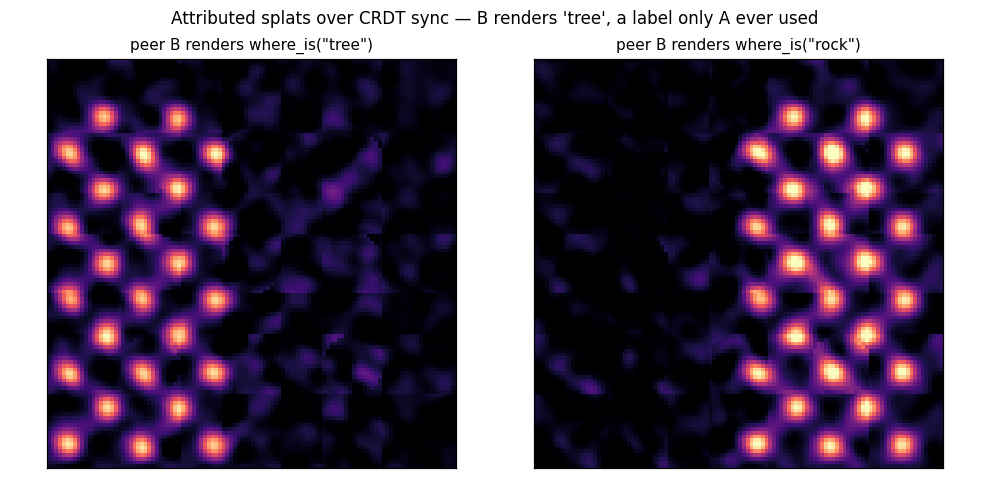
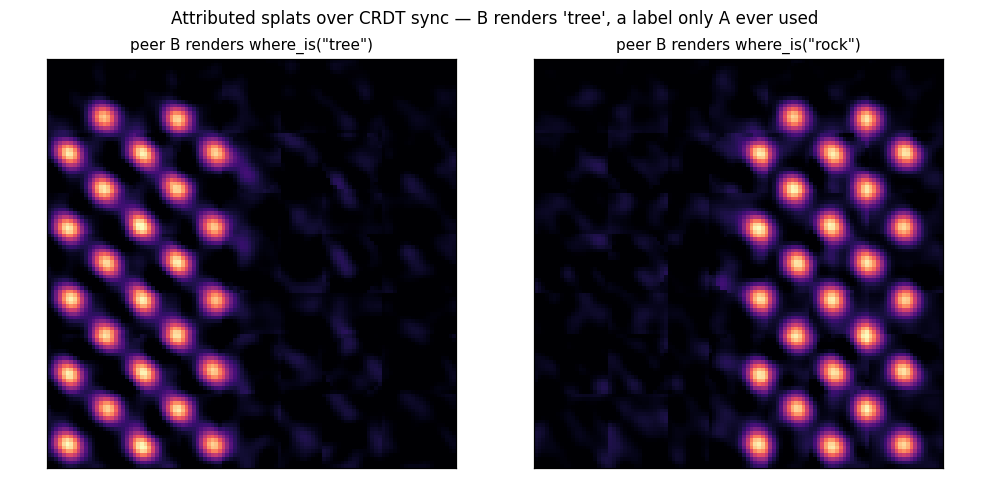
crdt demo: the two figures move into _demo_plot
Same pattern as demo_codec — the plotting tail was half the function's
branching and none of its subject. Behavior unchanged: every printed
line matches the pre-refactor capture except the Loro delta byte
counts, which vary run to run on identical input regardless of this
change (9,041 vs 9,040, measured on untouched code).

diff --git a/holo/crdt.py b/holo/crdt.py
@@ -454,6 +454,52 @@ class ReplicatedAttributeScene:
         return out
 
 
+def _demo_plot(view_a, view_b, merged_a, attr_b, P, grid):
+    """The demo's two figures: divergence-then-merge, and a label only
+    one peer ever used being rendered by the other."""
+    try:
+        import matplotlib
+        matplotlib.use("Agg")
+        import matplotlib.pyplot as plt
+    except ImportError:
+        print("  matplotlib not available; skipping image")
+        return
+
+    vmax = merged_a.max()
+    fig, axes = plt.subplots(1, 3, figsize=(13, 4.4))
+    for ax, (title, img) in zip(axes, [
+            ("peer A before sync (left half)", view_a),
+            ("peer B before sync (right half)", view_b),
+            ("either peer after Loro sync", merged_a)]):
+        ax.imshow(img.reshape(grid, grid), origin="lower", cmap="magma",
+                  vmin=0, vmax=vmax)
+        ax.set_title(title, fontsize=10)
+        ax.set_xticks([])
+        ax.set_yticks([])
+    fig.suptitle("Holographic scene as a CRDT: bundles merge by "
+                 "addition, Loro makes the exchange exactly-once",
+                 fontsize=11)
+    fig.tight_layout()
+    import os
+    os.makedirs("out", exist_ok=True)
+    fig.savefig("out/crdt_scene.png", dpi=110)
+    plt.close(fig)
+
+    fig, axes = plt.subplots(1, 2, figsize=(9, 4.4))
+    for ax, lab in zip(axes, ["tree", "rock"]):
+        img = attr_b.eval_where(lab, P).reshape(grid, grid)
+        ax.imshow(img, origin="lower", cmap="magma", vmin=0, vmax=1.1)
+        ax.set_title(f'peer B renders where_is("{lab}")', fontsize=10)
+        ax.set_xticks([])
+        ax.set_yticks([])
+    fig.suptitle("Attributed splats over CRDT sync — B renders "
+                 "'tree', a label only A ever used", fontsize=11)
+    fig.tight_layout()
+    fig.savefig("out/crdt_attributes.png", dpi=110)
+    plt.close(fig)
+    print("  saved out/crdt_scene.png, out/crdt_attributes.png")
+
+
 def demo(dim=4096, seed=0, save_png=True):
     if not HAVE_LORO:
         print("== CRDT demo skipped: pip install loro ==\n")
@@ -572,43 +618,5 @@ def demo(dim=4096, seed=0, save_png=True):
           f"roles and fillers rebuilt from the registry, schema included")
 
     if save_png:
-        try:
-            import matplotlib
-            matplotlib.use("Agg")
-            import matplotlib.pyplot as plt
-        except ImportError:
-            print("  matplotlib not available; skipping image")
-            print()
-            return
-        vmax = merged_a.max()
-        fig, axes = plt.subplots(1, 3, figsize=(13, 4.4))
-        for ax, (title, img) in zip(axes, [
-                ("peer A before sync (left half)", view_a),
-                ("peer B before sync (right half)", view_b),
-                ("either peer after Loro sync", merged_a)]):
-            ax.imshow(img.reshape(grid, grid), origin="lower", cmap="magma",
-                      vmin=0, vmax=vmax)
-            ax.set_title(title, fontsize=10)
-            ax.set_xticks([]), ax.set_yticks([])
-        fig.suptitle("Holographic scene as a CRDT: bundles merge by "
-                     "addition, Loro makes the exchange exactly-once",
-                     fontsize=11)
-        fig.tight_layout()
-        import os
-        os.makedirs("out", exist_ok=True)
-        fig.savefig("out/crdt_scene.png", dpi=110)
-        plt.close(fig)
-
-        fig, axes = plt.subplots(1, 2, figsize=(9, 4.4))
-        for ax, lab in zip(axes, ["tree", "rock"]):
-            img = attr_b.eval_where(lab, P).reshape(grid, grid)
-            ax.imshow(img, origin="lower", cmap="magma", vmin=0, vmax=1.1)
-            ax.set_title(f'peer B renders where_is("{lab}")', fontsize=10)
-            ax.set_xticks([]), ax.set_yticks([])
-        fig.suptitle("Attributed splats over CRDT sync — B renders "
-                     "'tree', a label only A ever used", fontsize=11)
-        fig.tight_layout()
-        fig.savefig("out/crdt_attributes.png", dpi=110)
-        plt.close(fig)
-        print("  saved out/crdt_scene.png, out/crdt_attributes.png")
+        _demo_plot(view_a, view_b, merged_a, attr_b, P, grid)
     print()
